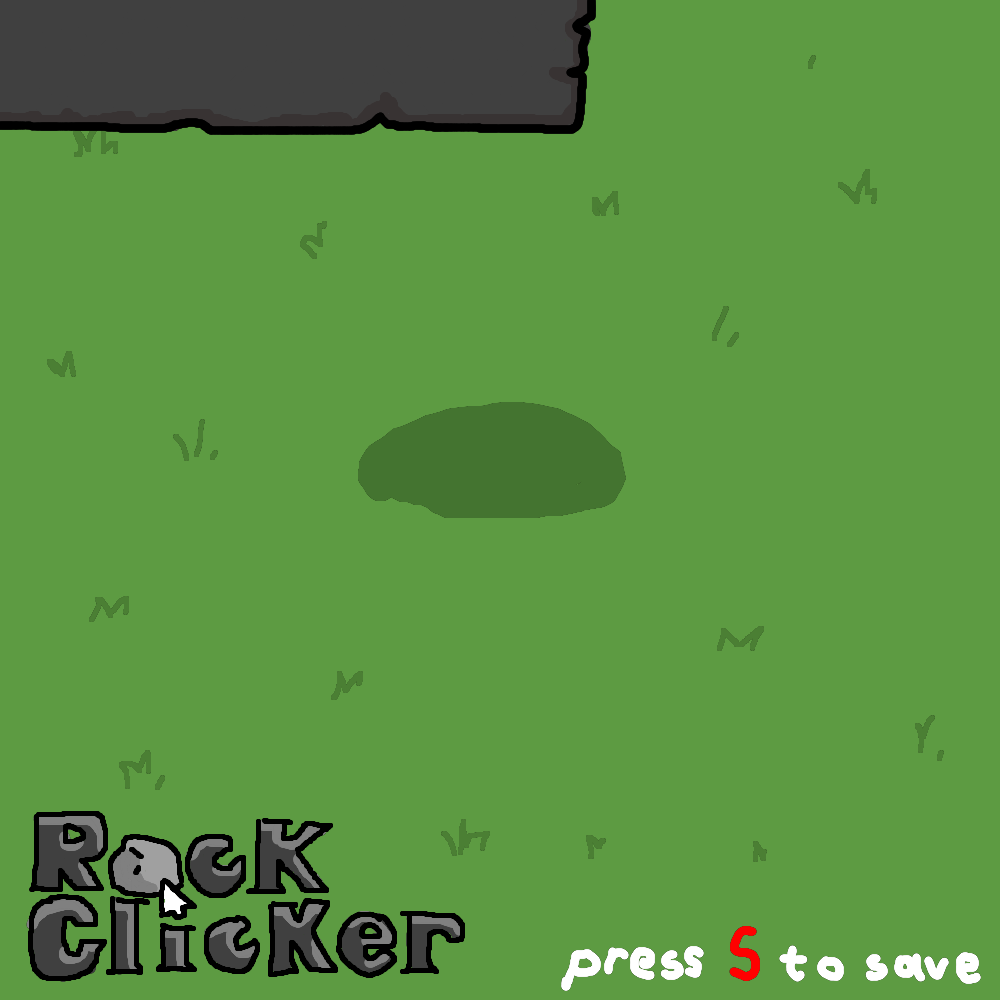
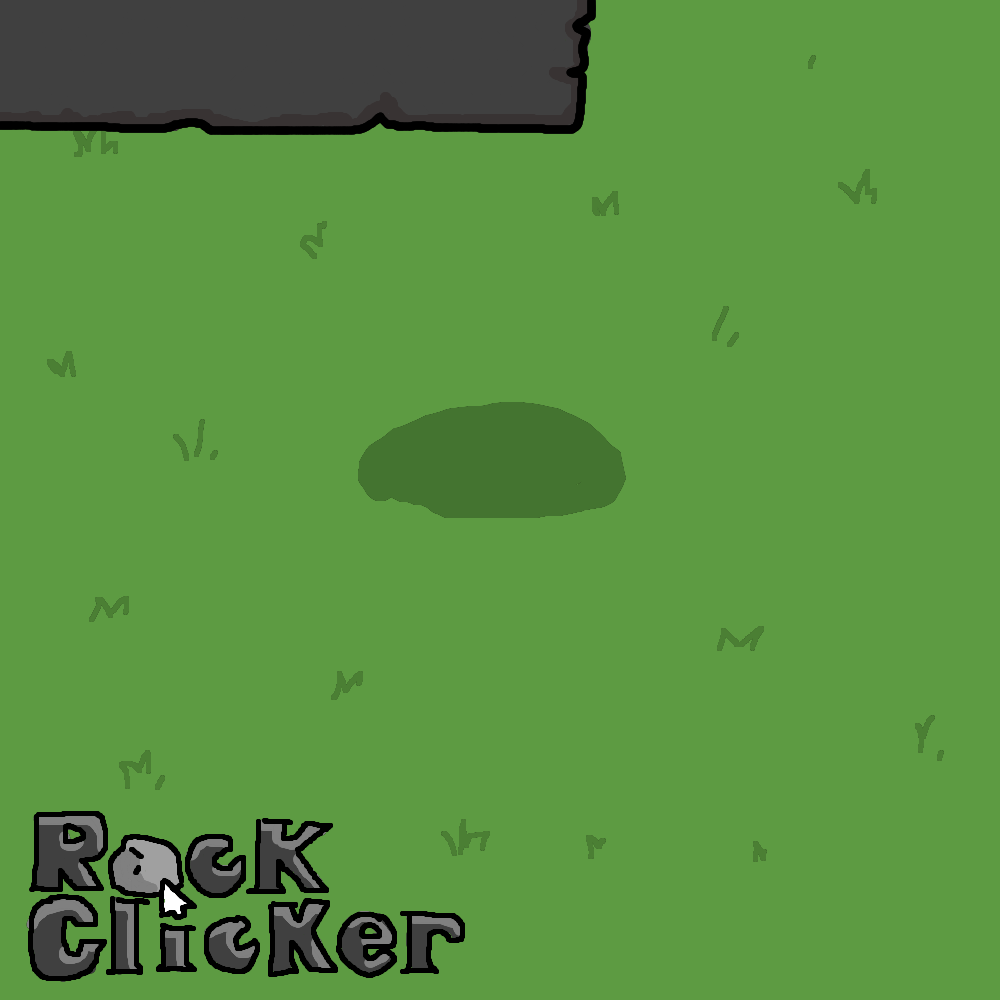
needs some bug fixxes

Changed region(s): [[0.558, 0.93, 0.992, 0.992]]

diff --git a/YellowSnow/test.c b/YellowSnow/test.c
@@ -4,6 +4,7 @@
 #include <SDL2/SDL_pixels.h>
 #include <SDL2/SDL_rect.h>
 #include <SDL2/SDL_render.h>
+#include <SDL2/SDL_stdinc.h>
 #include <SDL2/SDL_ttf.h>
 #include <math.h>
 #include <stdbool.h>
@@ -13,14 +14,15 @@
 #define WINDOW_WIDTH 1000
 #define WINDOW_HEIGHT 1000
 #define FRAME_DELAY 16
-#define AUTO_CLICK_INTERVAL 1000
 #define SHAKE_DURATION 200
 #define SHAKE_INTENSITY 10
 
 typedef struct {
   int score;
   int clickAmount;
+  int cpsLevel;
   Uint32 lastAutoClickTime;
+  Uint32 clickInterval;
 
   bool isRockHovered;
   bool isRockClicked;
@@ -51,6 +53,7 @@ typedef struct {
   SDL_Window *window;
   SDL_Renderer *renderer;
   TTF_Font *font;
+  TTF_Font *smallFont;
   Mix_Chunk *clickSound;
 } Resources;
 
@@ -59,6 +62,8 @@ void cleanup(Resources *res, UIElements *ui);
 bool isInsideRect(const SDL_Rect *rect, int x, int y);
 void renderText(SDL_Renderer *renderer, TTF_Font *font, const char *text,
                 SDL_Color color, int x, int y);
+void renderCenteredText(SDL_Renderer *renderer, TTF_Font *font,
+                        const char *text, SDL_Color color, SDL_Rect container);
 void handleEvents(bool *running, Resources *res, GameState *state,
                   UIElements *ui);
 void update(GameState *state, UIElements *ui);
@@ -67,6 +72,7 @@ void initGameState(GameState *state);
 void initUIElements(UIElements *ui);
 void LoadImages(UIElements *ui, Resources *res);
 bool loadData(GameState *gameState);
+bool saveData(GameState *gameState);
 
 int main() {
   Resources res = {0};
@@ -90,6 +96,7 @@ int main() {
     SDL_Delay(FRAME_DELAY);
   }
 
+  saveData(&state);
   cleanup(&res, &ui);
   return 0;
 }
@@ -97,20 +104,25 @@ int main() {
 bool saveData(GameState *gameState) {
   FILE *fl = fopen("data.txt", "w");
   if (!fl) {
-    return true;
+    return false;
   }
   fprintf(fl, "Score:%d\n", gameState->score);
-  fprintf(fl, "TotalClicks:%d", gameState->clickAmount);
+  fprintf(fl, "TotalClicks:%d\n", gameState->clickAmount);
+  fprintf(fl, "CPSLevel:%d\n", gameState->cpsLevel);
+  fprintf(fl, "ClickInterval:%d", gameState->clickInterval);
   fclose(fl);
-  return false;
+  return true;
 }
+
 bool loadData(GameState *gameState) {
   FILE *fl = fopen("data.txt", "r");
   if (!fl) {
-    return true;
+    return false;
   }
   int score = 0;
   int clicks = 0;
+  int cpsLevel = 1;
+  Uint32 interval = 1000;
   char text[100];
   while (fgets(text, sizeof(text), fl)) {
     if (sscanf(text, "Score:%d", &score) == 1) {
@@ -119,10 +131,17 @@ bool loadData(GameState *gameState) {
     if (sscanf(text, "TotalClicks:%d", &clicks) == 1) {
       gameState->clickAmount = clicks;
     }
+    if (sscanf(text, "CPSLevel:%d", &cpsLevel) == 1) {
+      gameState->cpsLevel = cpsLevel;
+    }
+    if (sscanf(text, "ClickInterval:%d", &interval) == 1) {
+      gameState->clickInterval = interval;
+    }
   }
   fclose(fl);
-  return false;
+  return true;
 }
+
 bool initialize(Resources *res) {
   if (SDL_Init(SDL_INIT_VIDEO | SDL_INIT_AUDIO) < 0) {
     printf("SDL could not initialize! SDL Error: %s\n", SDL_GetError());
@@ -159,9 +178,16 @@ bool initialize(Resources *res) {
   }
 
   res->font =
-      TTF_OpenFont("/usr/share/fonts/truetype/dejavu/DejaVuSans-Bold.ttf", 32);
+      TTF_OpenFont("/usr/share/fonts/truetype/dejavu/DejaVuSans-Bold.ttf", 28);
   if (!res->font) {
     printf("Failed to load font: %s\n", TTF_GetError());
+    return false;
+  }
+
+  res->smallFont =
+      TTF_OpenFont("/usr/share/fonts/truetype/dejavu/DejaVuSans-Bold.ttf", 24);
+  if (!res->smallFont) {
+    printf("Failed to load small font: %s\n", TTF_GetError());
     return false;
   }
 
@@ -177,6 +203,8 @@ bool initialize(Resources *res) {
 void cleanup(Resources *res, UIElements *ui) {
   if (res->font)
     TTF_CloseFont(res->font);
+  if (res->smallFont)
+    TTF_CloseFont(res->smallFont);
   if (res->clickSound)
     Mix_FreeChunk(res->clickSound);
   if (res->renderer)
@@ -234,10 +262,42 @@ void renderText(SDL_Renderer *renderer, TTF_Font *font, const char *text,
   SDL_DestroyTexture(texture);
 }
 
+void renderCenteredText(SDL_Renderer *renderer, TTF_Font *font,
+                        const char *text, SDL_Color color, SDL_Rect container) {
+  if (!text || !font)
+    return;
+
+  SDL_Surface *surface = TTF_RenderText_Solid(font, text, color);
+  if (!surface) {
+    printf("Unable to render text surface! SDL_ttf Error: %s\n",
+           TTF_GetError());
+    return;
+  }
+
+  SDL_Texture *texture = SDL_CreateTextureFromSurface(renderer, surface);
+  if (!texture) {
+    printf("Unable to create texture from rendered text! SDL Error: %s\n",
+           SDL_GetError());
+    SDL_FreeSurface(surface);
+    return;
+  }
+
+  SDL_Rect dst = {container.x + (container.w - surface->w) / 2,
+                  container.y + (container.h - surface->h) / 2, surface->w,
+                  surface->h};
+  dst.y -= 20;
+  SDL_RenderCopy(renderer, texture, NULL, &dst);
+
+  SDL_FreeSurface(surface);
+  SDL_DestroyTexture(texture);
+}
+
 void initGameState(GameState *state) {
   state->score = 0;
   state->clickAmount = 1;
+  state->cpsLevel = 1;
   state->lastAutoClickTime = SDL_GetTicks();
+  state->clickInterval = 1000;
   state->isRockHovered = false;
   state->isRockClicked = false;
   state->rockClickTime = 0;
@@ -297,11 +357,20 @@ void handleEvents(bool *running, Resources *res, GameState *state,
         }
       }
 
-      int upgradeCost = state->clickAmount * 10;
-      if (isInsideRect(&ui->upgradeButton, mx, my) &&
-          state->score >= upgradeCost) {
-        state->score -= upgradeCost;
+      int clickUpgradeCost = state->clickAmount * state->clickAmount;
+      if (isInsideRect(&ui->clickBut, mx, my) &&
+          state->score >= clickUpgradeCost) {
+        state->score -= clickUpgradeCost;
         state->clickAmount++;
+      }
+
+      int cpsUpgradeCost = state->cpsLevel * state->cpsLevel * 100;
+      if (isInsideRect(&ui->cpsBut, mx, my) && state->score >= cpsUpgradeCost) {
+        state->score -= cpsUpgradeCost;
+        state->cpsLevel++;
+        state->clickInterval = (state->clickInterval > 50)
+                                   ? state->clickInterval / 2
+                                   : state->clickInterval;
       }
       break;
     }
@@ -323,10 +392,10 @@ void handleEvents(bool *running, Resources *res, GameState *state,
     }
   }
 }
-// autoclick
+
 void update(GameState *state, UIElements *ui) {
   Uint32 currentTime = SDL_GetTicks();
-  if (currentTime - state->lastAutoClickTime >= AUTO_CLICK_INTERVAL) {
+  if (currentTime - state->lastAutoClickTime >= state->clickInterval) {
     state->score++;
     state->lastAutoClickTime = currentTime;
   }
@@ -353,7 +422,7 @@ void render(Resources *res, GameState *state, UIElements *ui) {
   } else {
     rockRect = ui->rockNormalRect;
   }
-  // shake effect
+
   if (state->isShaking) {
     Uint32 elapsedTime = SDL_GetTicks() - state->rockClickTime;
     float shake_progress = (float)elapsedTime / SHAKE_DURATION;
@@ -366,34 +435,42 @@ void render(Resources *res, GameState *state, UIElements *ui) {
     rockRect.x += (int)shake_x;
     rockRect.y += (int)shake_y;
   }
+
   SDL_RenderCopy(res->renderer, ui->background, NULL, NULL);
   SDL_RenderCopy(res->renderer, ui->rock, NULL, &rockRect);
   SDL_RenderCopy(res->renderer, ui->clickUpgrade, NULL, &ui->clickBut);
   SDL_RenderCopy(res->renderer, ui->CPSUpgrade, NULL, &ui->cpsBut);
 
-  // SDL_SetRenderDrawColor(res->renderer, ui->upgradeButtonColor.r,
-  //                       ui->upgradeButtonColor.g, ui->upgradeButtonColor.b,
-  //                       255);
-  // SDL_RenderFillRect(res->renderer, &ui->upgradeButton);
-
   char scoreText[64];
   snprintf(scoreText, sizeof(scoreText), "Score: %d", state->score);
-  renderText(res->renderer, res->font, scoreText, ui->textColor, 20, 20);
+  renderText(res->renderer, res->smallFont, scoreText, ui->textColor, 20, 75);
 
   char clickText[64];
   snprintf(clickText, sizeof(clickText), "Click Value: %d", state->clickAmount);
-  renderText(res->renderer, res->font, clickText, ui->textColor, 20, 70);
+  renderText(res->renderer, res->smallFont, clickText, ui->textColor, 20, 10);
 
-  // char upgradeText[128];
-  // snprintf(upgradeText, sizeof(upgradeText), "Upgrade Cost: %d",
-  //        state->clickAmount * 10);
-  // renderText(res->renderer, res->font, upgradeText, ui->textColor, 20,
-  //            WINDOW_HEIGHT - 60);
+  char cpsText[64];
+  snprintf(cpsText, sizeof(cpsText), "CPS: %.1f",
+           1000.0f / state->clickInterval);
+  renderText(res->renderer, res->smallFont, cpsText, ui->textColor, 20, 45);
 
-  renderText(res->renderer, res->font, "+1 click", ui->textColor, 400, 550);
+  char saveInstructions[64] = "press S to save";
+  renderText(res->renderer, res->smallFont, saveInstructions, ui->textColor,
+             750, 950);
 
-  renderText(res->renderer, res->font, "+1 CPS", ui->textColor, 400, 680);
+  char clickUpgradeText[64];
+  int clickUpgradeCost = state->clickAmount * state->clickAmount;
+  snprintf(clickUpgradeText, sizeof(clickUpgradeText), "+1 Click: %d",
+           clickUpgradeCost);
+  renderCenteredText(res->renderer, res->smallFont, clickUpgradeText,
+                     ui->textColor, ui->clickBut);
 
-  // update la screen
+  char cpsUpgradeText[64];
+  int cpsUpgradeCost = state->cpsLevel * state->cpsLevel * 100;
+  snprintf(cpsUpgradeText, sizeof(cpsUpgradeText), "2x CPS: %d",
+           cpsUpgradeCost);
+  renderCenteredText(res->renderer, res->smallFont, cpsUpgradeText,
+                     ui->textColor, ui->cpsBut);
+
   SDL_RenderPresent(res->renderer);
 }
